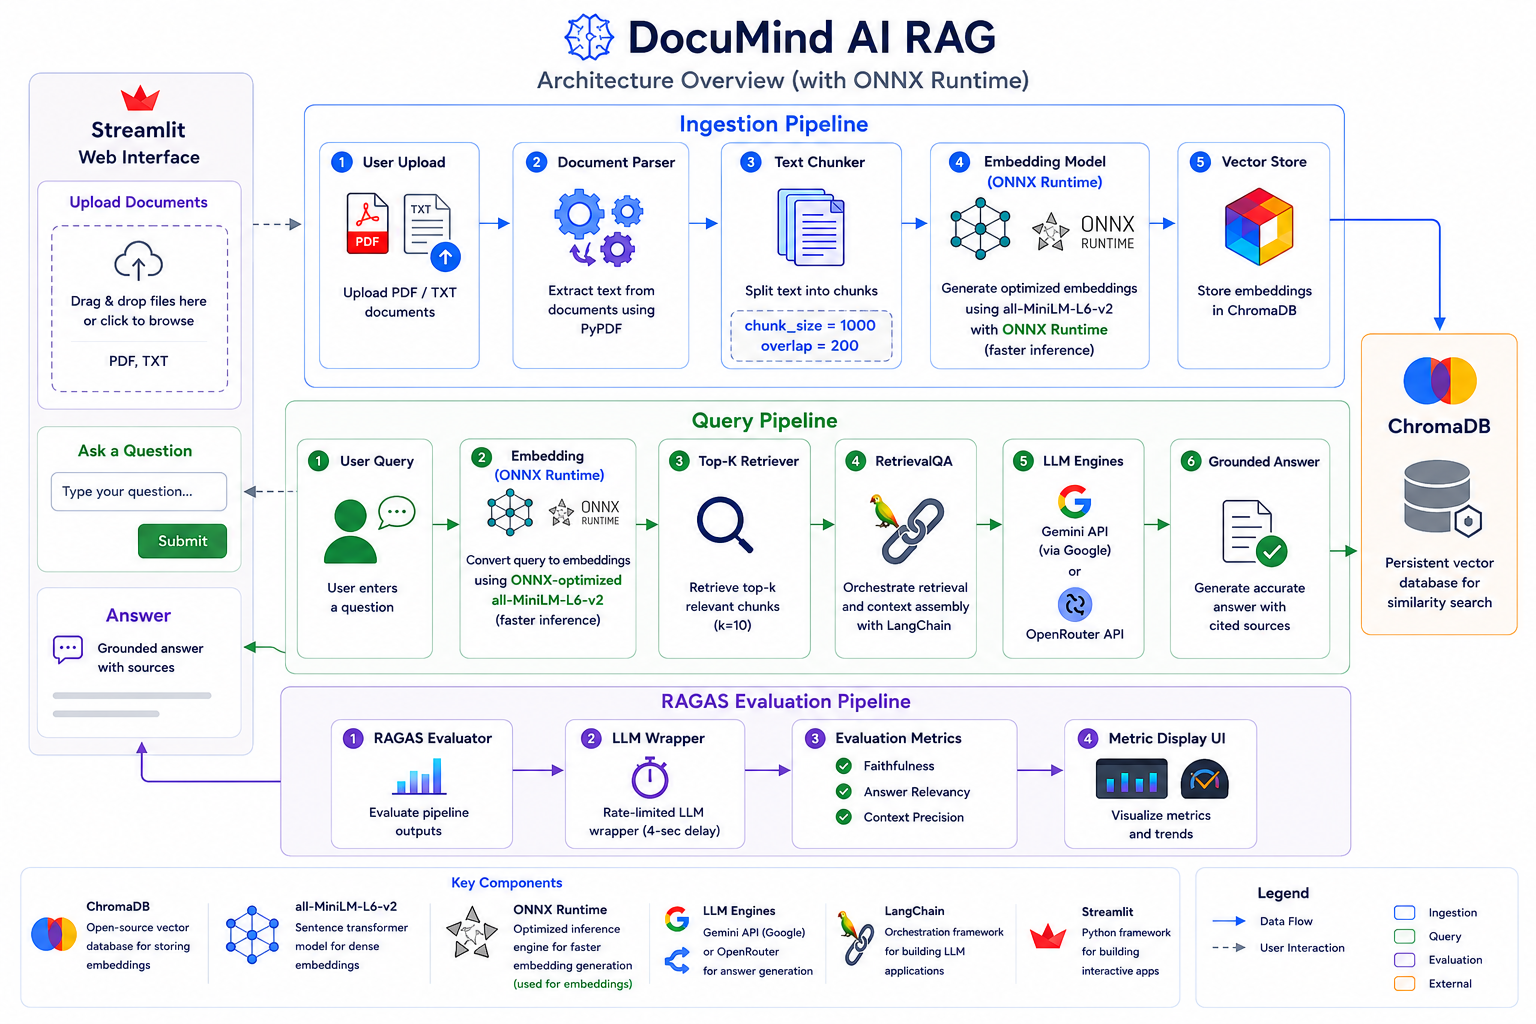
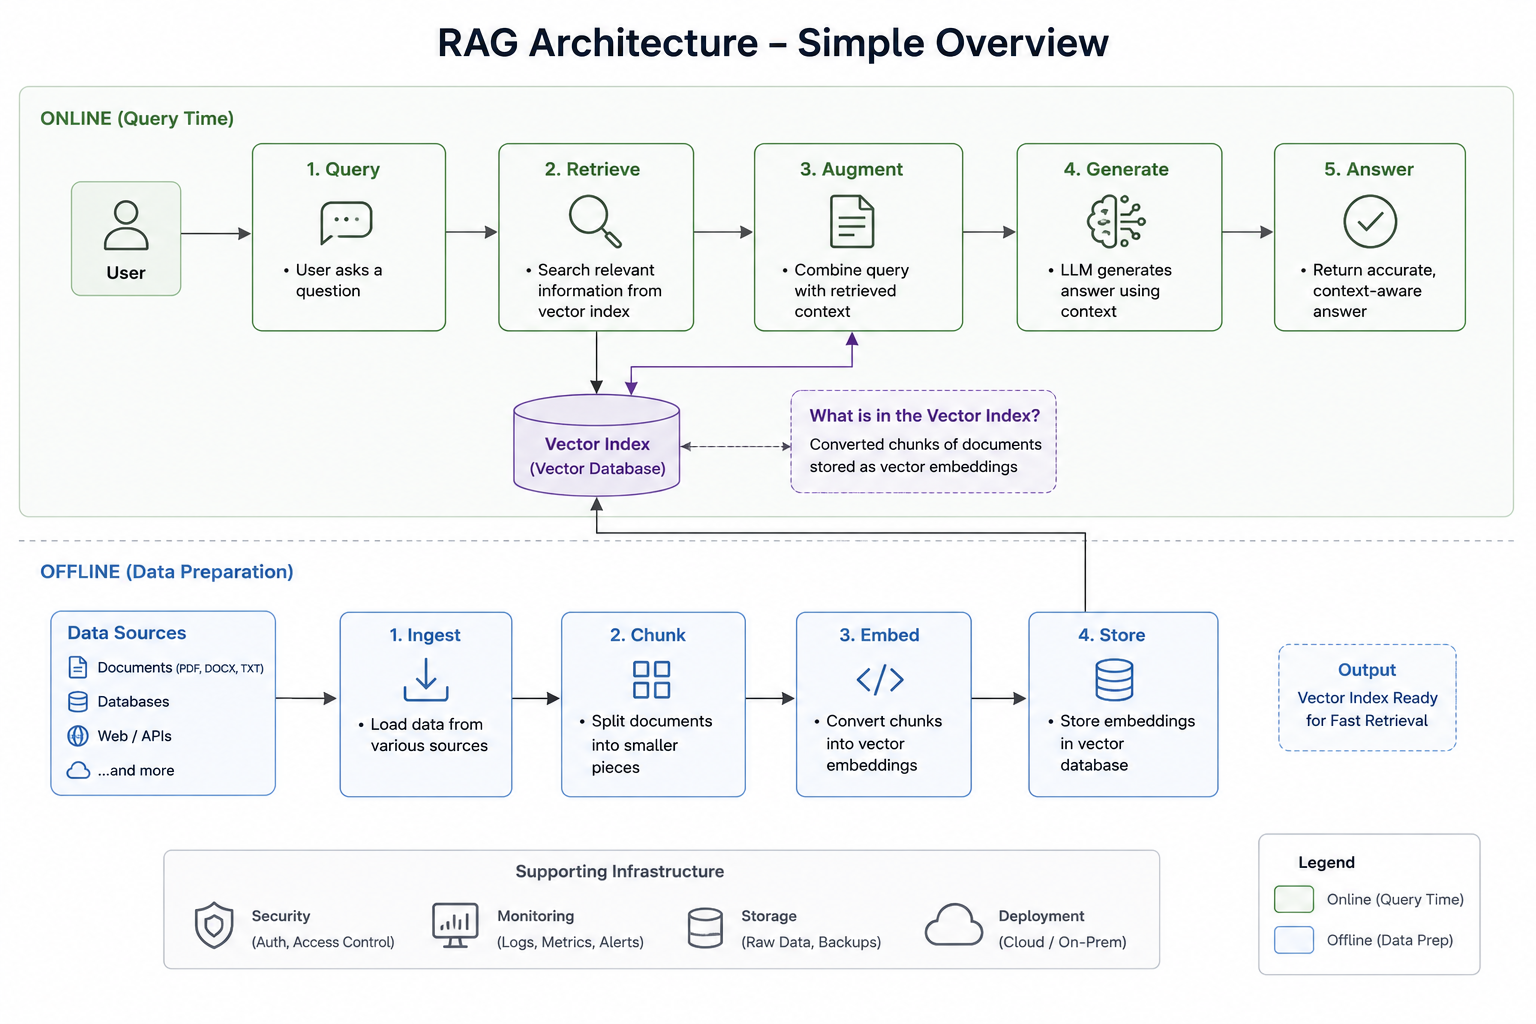
docs: add assets/Architecture.png to README.md

diff --git a/README.md b/README.md
@@ -35,6 +35,8 @@ Traditional RAG pipelines suffer from information loss (due to model sequence le
 
 ## Architecture & Pipeline
 
+![Architecture](assets/Architecture.png)
+
 ```mermaid
 graph TD
     subgraph Ingestion [Ingestion Pipeline]